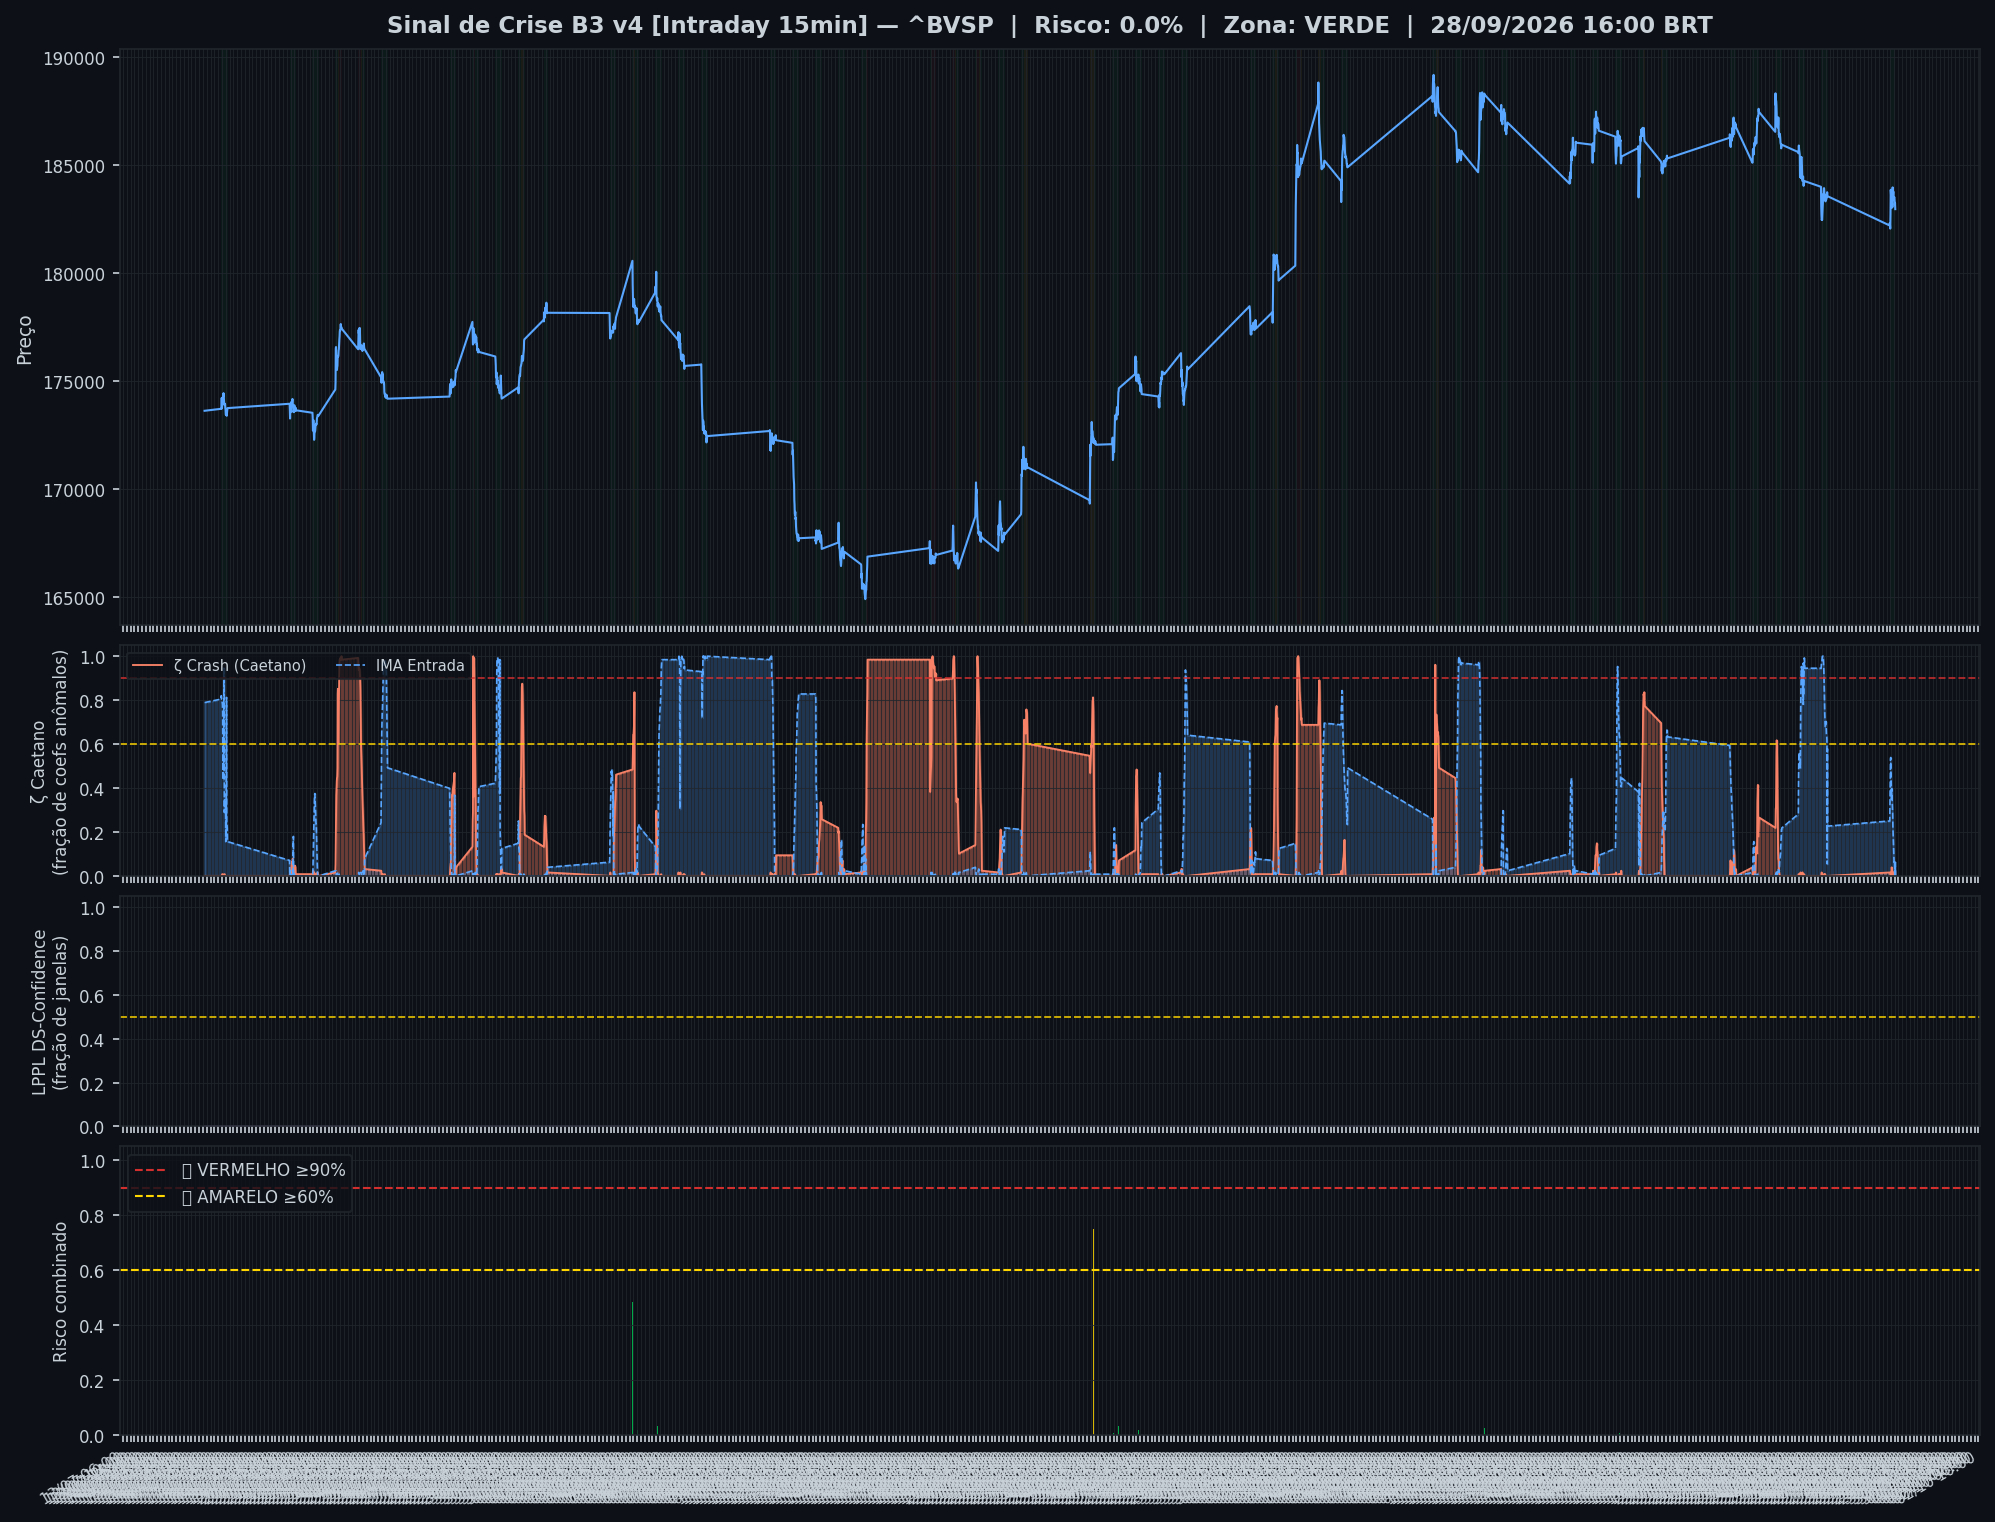
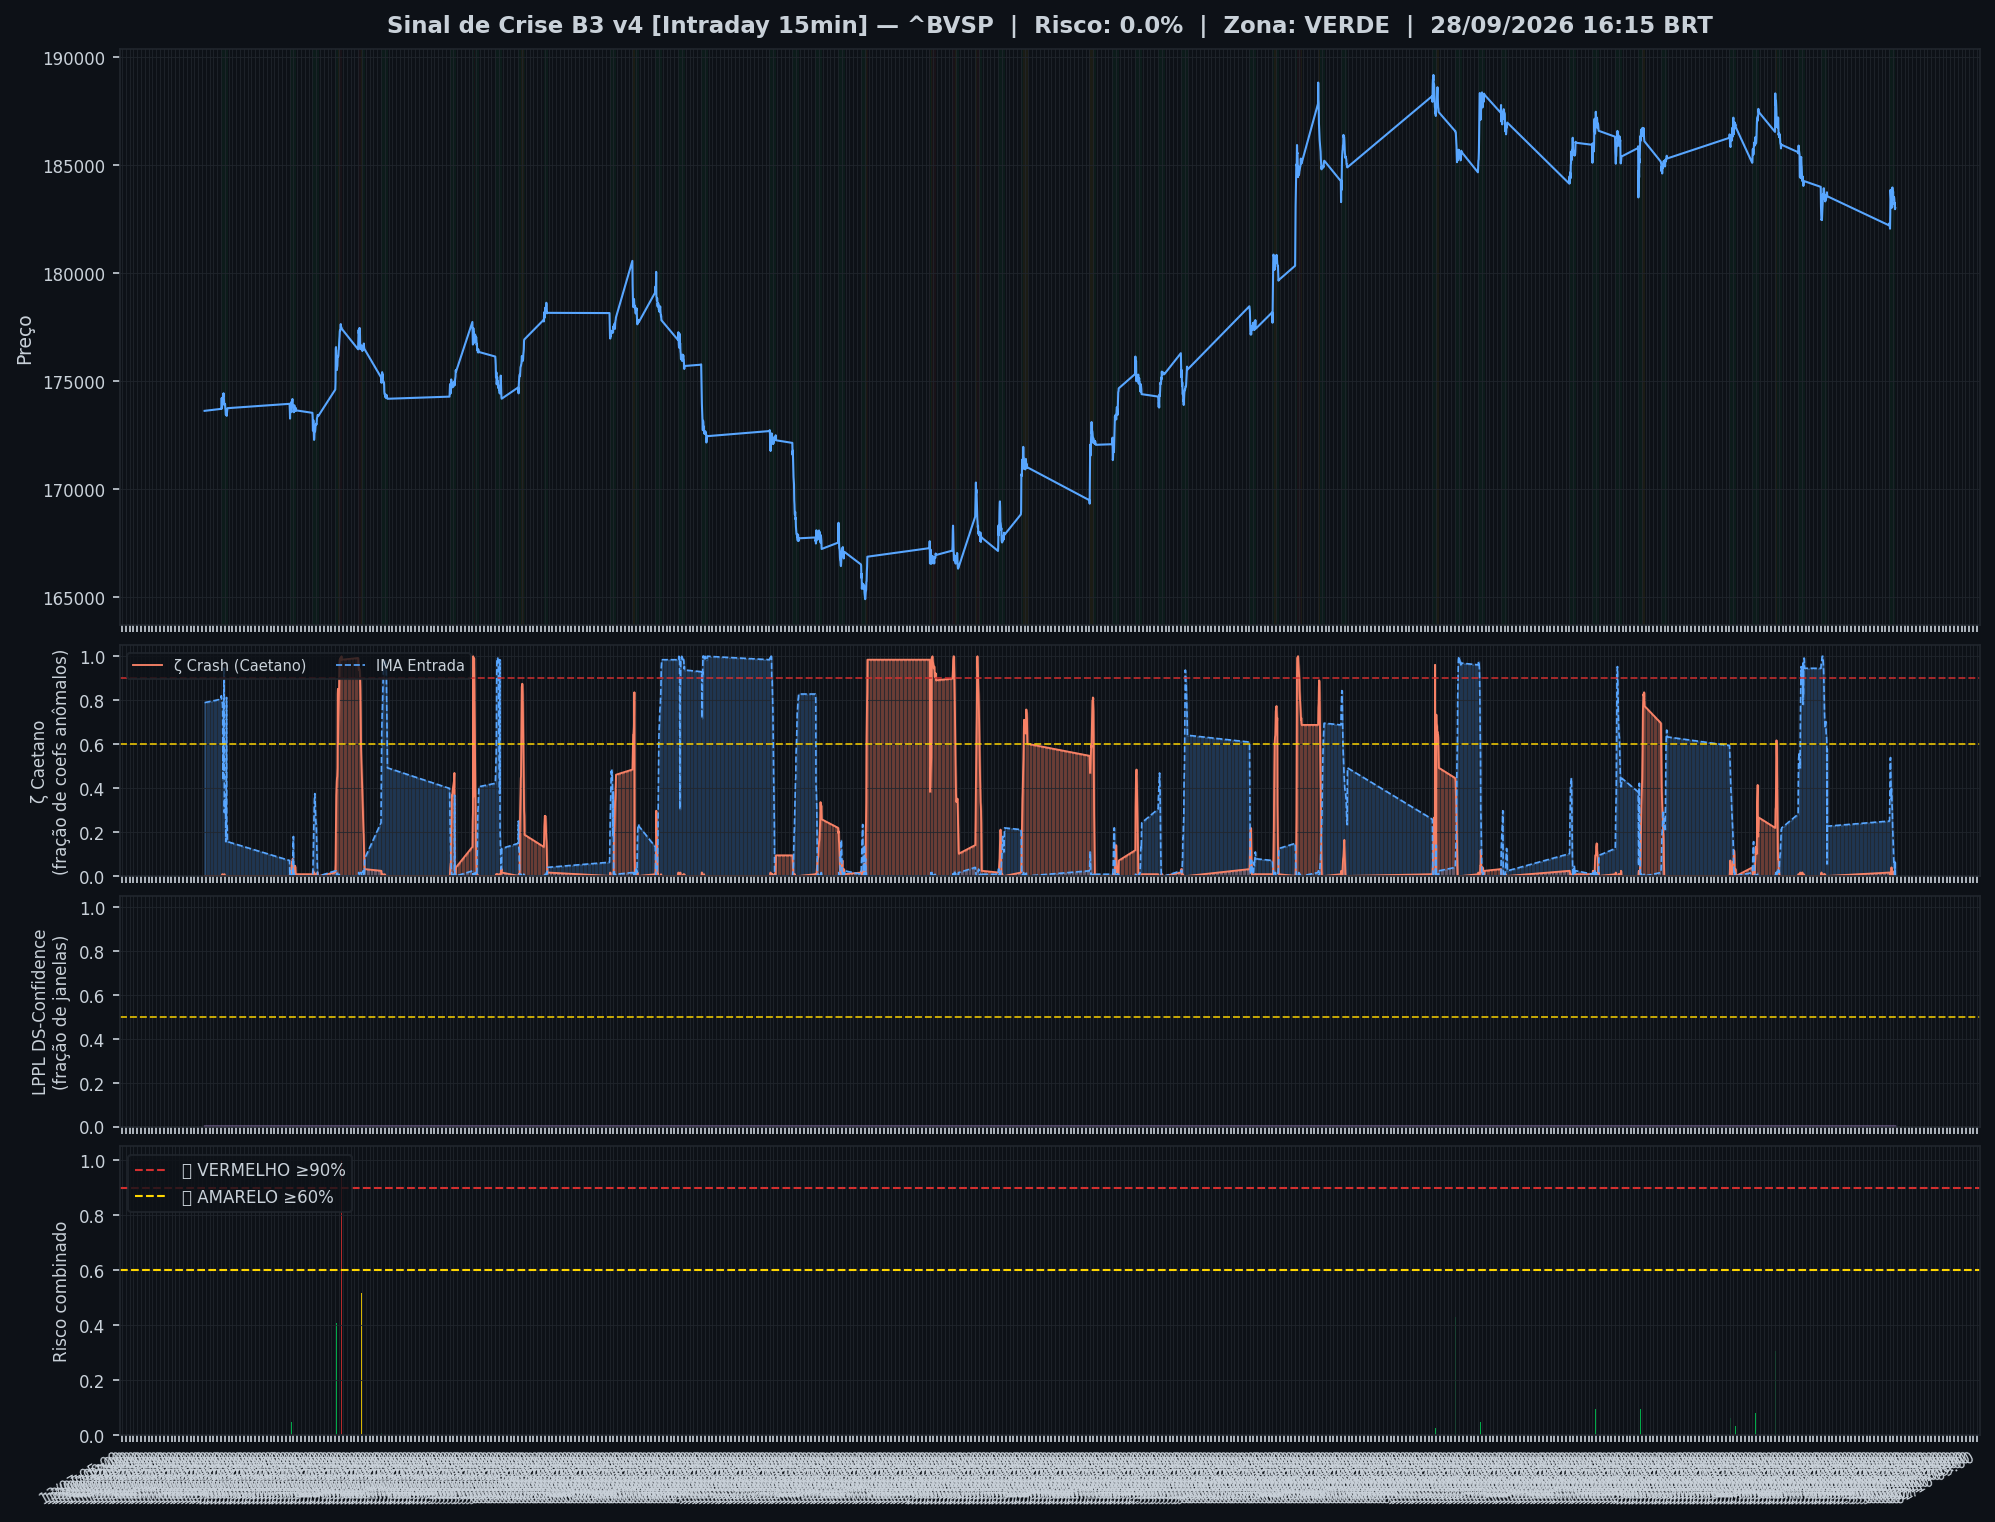
🤖 Auto: Sinal 28/09/2026 17:01

Changed region(s): [[0.0932, 0.4323, 0.9634, 0.5867], [0.0311, 0.9264, 0.9945, 0.9882], [0.808, 0.0, 0.8391, 0.0309]]

diff --git a/content/intraday/2026-09-28.md b/content/intraday/2026-09-28.md
@@ -1,5 +1,5 @@
 ---
-title: "🟢 Intraday 28/09/2026 16:00 BRT — VERDE"
+title: "🟢 Intraday 28/09/2026 16:15 BRT — VERDE"
 date: 2026-09-28
 tags: [intraday]
 ---
@@ -14,7 +14,7 @@ tags: [intraday]
 | 🔴 ζ Crash — severidade da queda em curso | **0%** |
 | 🔵 ζ Entrada — estrutura de fundo | 0% |
 | 🫧 LPPL DS-Confidence | 0% |
-| 📊 Ibovespa | 182.958 pts |
+| 📊 Ibovespa | 183.012 pts |
 
 ![Gráfico do sinal](../graficos/sinal_intraday.png)
 
@@ -22,6 +22,7 @@ tags: [intraday]
 
 | Data | Zona | Risco | IMA Crash | Entrada | LPPL |
 |---|---|---|---|---|---|
+| 2026-09-28 16:15 | 🟢 VERDE | **0%** | 0% | 0% | 0% |
 | 2026-09-28 16:00 | 🟢 VERDE | **0%** | 0% | 0% | 0% |
 | 2026-09-28 15:45 | 🟢 VERDE | **0%** | 0% | 6% | 0% |
 | 2026-09-28 15:30 | 🟢 VERDE | **0%** | 0% | 0% | 0% |
@@ -51,7 +52,6 @@ tags: [intraday]
 | 2026-09-25 16:30 | 🟢 VERDE | **0%** | 0% | 58% | 0% |
 | 2026-09-25 16:15 | 🟢 VERDE | **0%** | 0% | 5% | 0% |
 | 2026-09-25 16:00 | 🟢 VERDE | **0%** | 0% | 62% | 0% |
-| 2026-09-25 15:45 | 🟢 VERDE | **0%** | 0% | 64% | 0% |
 
 ## Monitor Multi-Ativo
 
@@ -59,11 +59,14 @@ tags: [intraday]
 
 | Zona | Ativo | Setor | IMA Crash | IMA Entrada |
 |---|---|---|---|---|
-| 🟢 | **USD/BRL** | Câmbio | 14.8% | 0.0% |
+| 🟢 | **USD/BRL** | Câmbio | 18.8% | 0.8% |
 | 🟢 | **VALE** | Mineração | 13.3% | 0.0% |
+| 🟢 | **ITAUUNIBANCO** | Financeiro | 13.3% | 0.0% |
+| 🟢 | **PETROBRAS** | Petróleo | 13.3% | 0.0% |
 | 🟢 | **PETROBRAS** | Petróleo | 13.3% | 0.0% |
 | 🟢 | **AXIA ENERGIA** | Energia | 13.3% | 0.0% |
 | 🟢 | **SABESP** | Saneamento | 13.3% | 0.0% |
+| 🟢 | **BRADESCO** | Financeiro | 13.3% | 0.0% |
 | 🟢 | **B3** | Financeiro | 13.3% | 0.0% |
 | 🟢 | **ITAUSA** | Financeiro | 13.3% | 0.0% |
 | 🟢 | **BTGP BANCO** | Financeiro | 13.3% | 0.0% |
@@ -81,13 +84,10 @@ tags: [intraday]
 | 🟢 | **LOCALIZA** | Aluguel | 13.3% | 0.0% |
 | 🟢 | **GERDAU** | Siderurgia | 13.3% | 0.0% |
 | 🟢 | **SUZANO S.A.** | Papel/Celulose | 13.3% | 0.0% |
-| 🟢 | **ITAUUNIBANCO** | Financeiro | 10.9% | 0.0% |
-| 🟢 | **PETROBRAS** | Petróleo | 10.9% | 0.0% |
-| 🟢 | **BRADESCO** | Financeiro | 10.9% | 0.0% |
 
 ![Monitor multi-ativo](../graficos/multi_intraday.png)
 
-*Página atualizada em 28/09/2026 16:46 BRT (leitura da barra de 2026-09-28 16:00 BRT).*
+*Página atualizada em 28/09/2026 17:01 BRT (leitura da barra de 2026-09-28 16:15 BRT).*
 
 > [!info]- Como interpretar (clique para expandir)
 > - **ζ Crash**: fração dos coeficientes wavelet acima do corte (Caetano & Yoneyama 2009). Escala absoluta: ζ=0,90 = 90% dos coeficientes anômalos — historicamente, quedas com ζ≥0,90 foram mais fundas e mais longas. **Mede a severidade do movimento em curso, não prevê o início da queda.**

diff --git a/content/index.md b/content/index.md
@@ -8,7 +8,7 @@ tags: [home]
 
 Monitoramento diário e intraday do Ibovespa — **IMA Wavelet** (Prof. Marco Antonio Leonel Caetano, ITA/INSPER) + **LPPL DS-Confidence** (Prof. Didier Sornette, ETH-Zurich).
 
-*Última atualização: 28/09/2026 16:46 BRT · ^BVSP · Intraday 15min · v4*
+*Última atualização: 28/09/2026 17:01 BRT · ^BVSP · Intraday 15min · v4*
 
 > [!success] 🟢 **VERDE** — Risco 0% · ＝ +0 p.p. vs leitura anterior
 > `░░░░░░░░░░░░░░░░░░░░`
@@ -20,7 +20,7 @@ Monitoramento diário e intraday do Ibovespa — **IMA Wavelet** (Prof. Marco An
 | 🔴 ζ Crash — severidade da queda em curso | **0%** |
 | 🔵 ζ Entrada — estrutura de fundo | 0% |
 | 🫧 LPPL DS-Confidence | 0% |
-| 📊 Ibovespa | 182.958 pts |
+| 📊 Ibovespa | 183.012 pts |
 
 **Multi-ativo:** 0% em tensão (0🔴 0🟡 de 25 ativos)
 

diff --git a/content/historico.md b/content/historico.md
@@ -7,6 +7,7 @@ tags: [historico]
 
 | Data | Modo | Zona | Risco | IMA | LPPL |
 |---|---|---|---|---|---|
+| 2026-09-28 16:15 | intraday | 🟢 VERDE | 0% | 0% | 0% |
 | 2026-09-28 16:00 | intraday | 🟢 VERDE | 0% | 0% | 0% |
 | 2026-09-28 15:45 | intraday | 🟢 VERDE | 0% | 0% | 0% |
 | 2026-09-28 15:30 | intraday | 🟢 VERDE | 0% | 0% | 0% |
